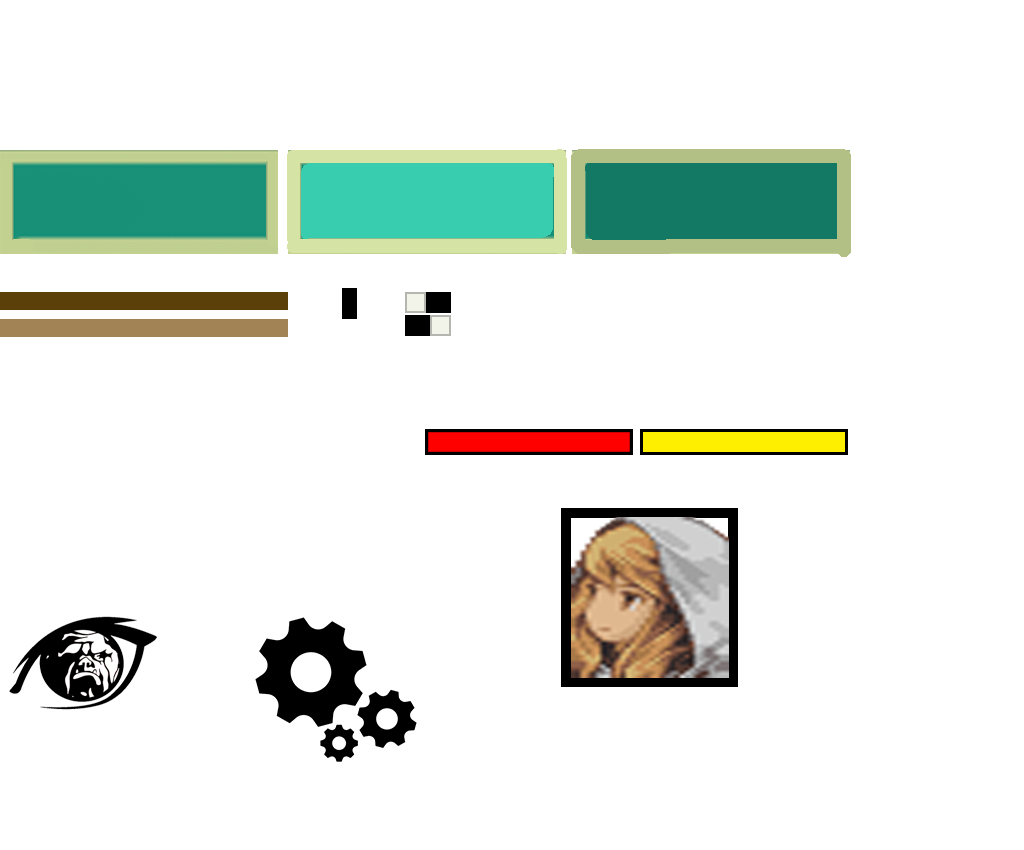
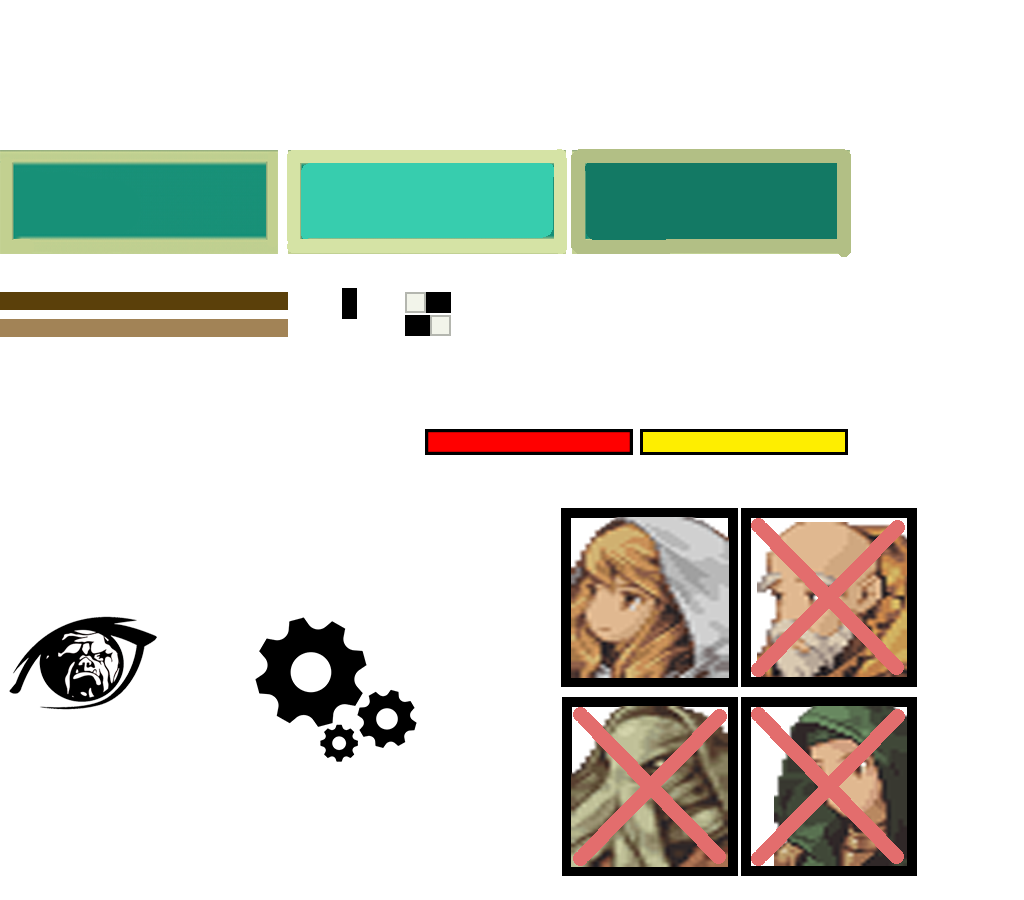
Working on champion selection screen(WIP)

diff --git a/FantasyBrawl_Project/Motor2D/j1UIScene.cpp b/FantasyBrawl_Project/Motor2D/j1UIScene.cpp
@@ -144,17 +144,24 @@ bool j1UIScene::Start()
 
 	menu* championSelection = new menu(SELECTION_MENU);
 	{
-		UI_element* selection_image = App->gui->createImage(0, 0, App->tex->Load("gui/big_parchment.png"), this);
+		UI_element* selection_image = App->gui->createImage(0, 0, App->tex->Load("gui/vs.png"), this);
 		UI_element* selection_text = App->gui->createText("CHAMPION SELECTION", 275, 60, big_buttons_font, brown_color);
 		selection_text->setOutlined(true);
 
-		UI_element* champion_button = App->gui->createButton(300 * App->gui->UI_scale, 250 * App->gui->UI_scale, NULL, { 560,507,180,180 }, { 560,507,180,180 }, { 560,507,180,180 }, this);
-		champion_button->function = INGAME;
+		UI_element* champion_button1 = App->gui->createButton(300 * App->gui->UI_scale, 250 * App->gui->UI_scale, NULL, { 560,507,180,180 }, { 560,507,180,180 }, { 560,507,180,180 }, this);
+		champion_button1->function = INGAME;
+
+		UI_element* champion_button2 = App->gui->createButton(500 * App->gui->UI_scale, 250 * App->gui->UI_scale, NULL, { 740,507,180,180 }, { 740,507,180,180 }, { 740,507,180,180 }, this);
+		UI_element* champion_button3 = App->gui->createButton(300 * App->gui->UI_scale, 450 * App->gui->UI_scale, NULL, { 560,696,180,180 }, { 560,696,180,180 }, { 560,696,180,180 }, this);
+		UI_element* champion_button4 = App->gui->createButton(500 * App->gui->UI_scale, 450 * App->gui->UI_scale, NULL, { 740,696,180,180 }, { 740,696,180,180 }, { 740,696,180,180 }, this);
 
 
 		championSelection->elements.push_back(selection_image);
 		championSelection->elements.push_back(selection_text);
-		championSelection->elements.push_back(champion_button);
+		championSelection->elements.push_back(champion_button1);
+		championSelection->elements.push_back(champion_button2);
+		championSelection->elements.push_back(champion_button3);
+		championSelection->elements.push_back(champion_button4);
 		menus.push_back(championSelection);
 	}
 
@@ -296,6 +303,25 @@ bool j1UIScene::Update(float dt)
 			App->transition->menuTransition(START_MENU, 0.3f);
 			ret = true;
 		}
+	}
+
+
+	//PAUSING GAME WHILE ON MENUS
+	if (actual_menu == START_MENU)
+	{
+		App->on_GamePause = true;
+	}
+	else if (actual_menu == SETTINGS_MENU)
+	{
+		App->on_GamePause = true;
+	}
+	else if (actual_menu == SELECTION_MENU)
+	{
+		App->on_GamePause = true;
+	}
+	else if (actual_menu == INGAME_MENU)
+	{
+		App->on_GamePause = false;
 	}
 		
 	//UPDATING HP BARS POSITION
